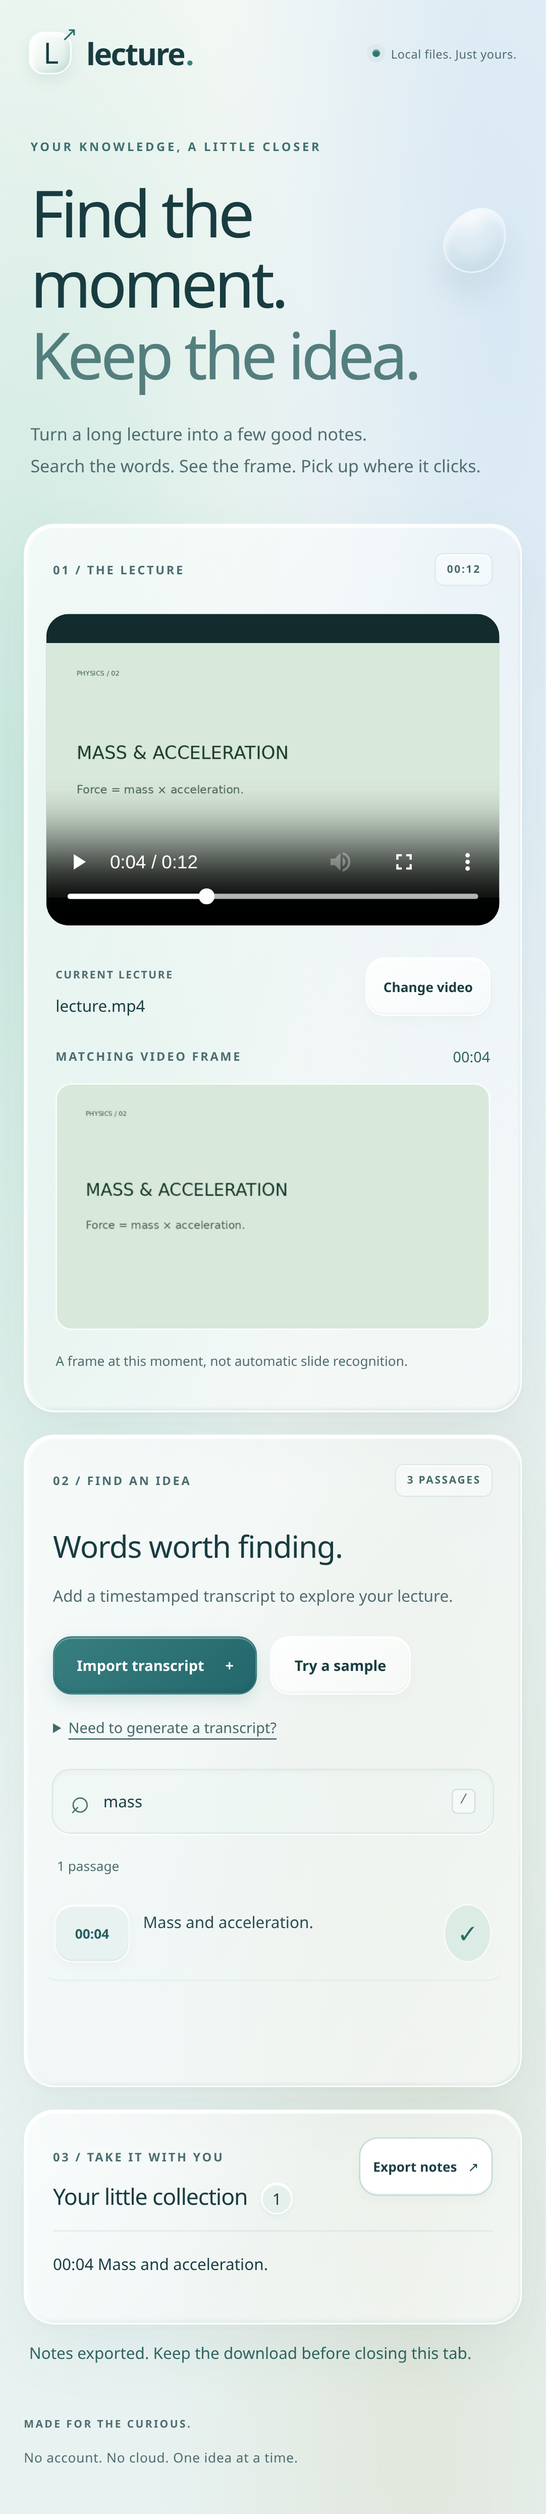
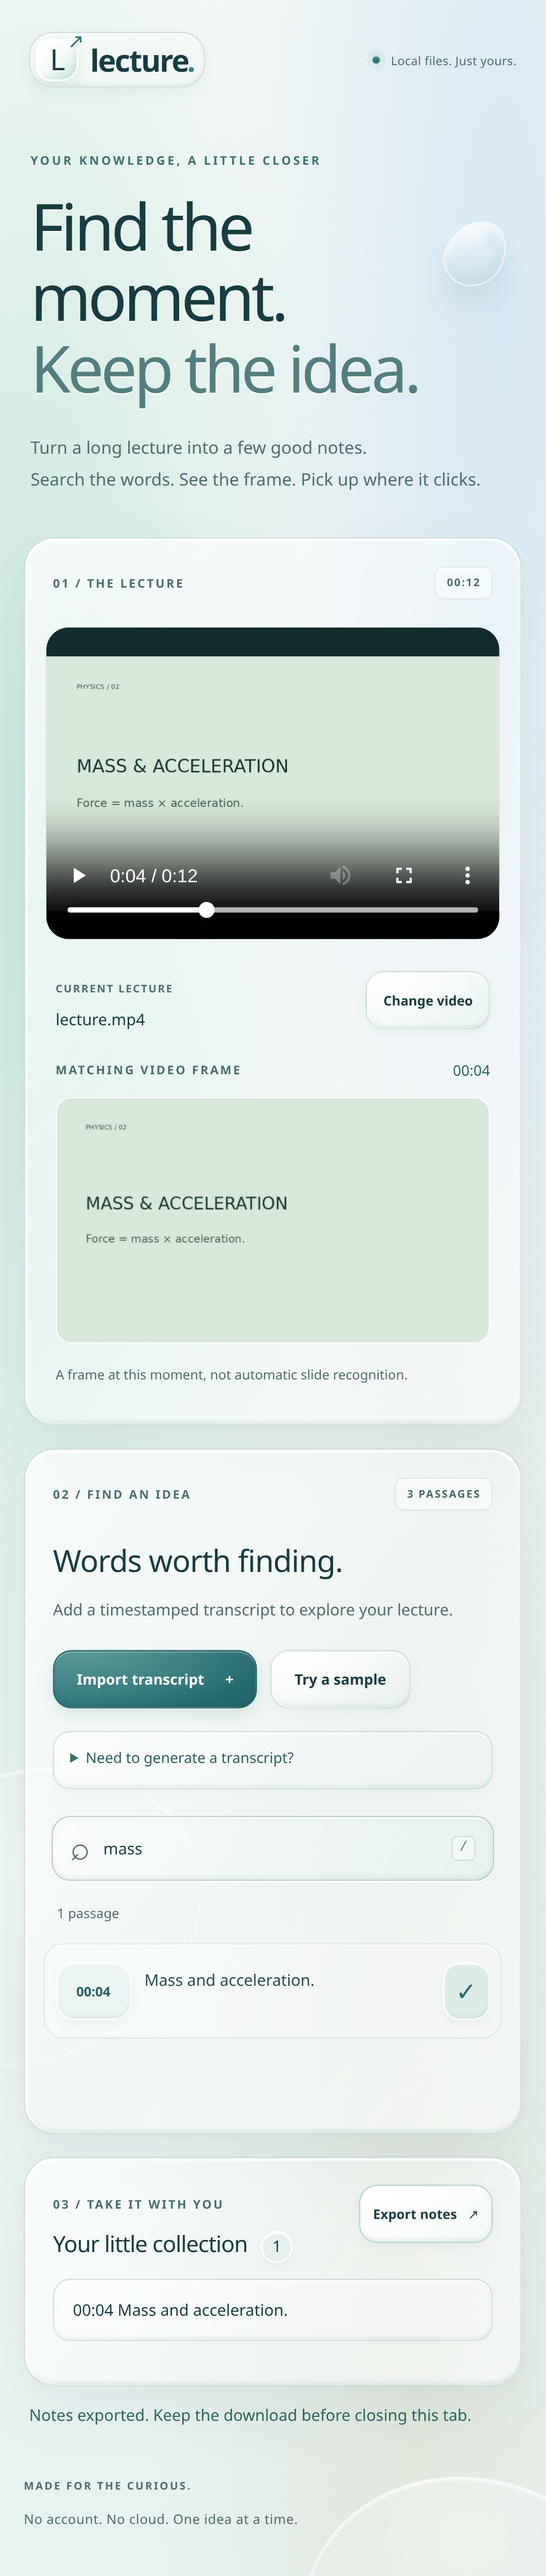
Unify liquid-glass edges across controls and surfaces

diff --git a/src/style.css b/src/style.css
@@ -8,6 +8,8 @@
   --ink: #183c40;
   --muted: #506c70;
   --accent: #206c70;
+  --edge: #83aaa34d;
+  --rim: inset 0 1px 1px #fff, inset 1px 0 1px #ffffffb8, inset 0 -2px 3px #4c80751a;
   --spring: cubic-bezier(.2,.75,.25,1);
 }
 * { box-sizing: border-box; }
@@ -21,14 +23,25 @@ body {
     radial-gradient(ellipse at 76% 92%, #e0e7dc 0%, transparent 45%),
     linear-gradient(145deg,#f6f9f5,#e8f2f1 70%);
 }
+/* Still caustic rings sit behind content: no moving wallpaper or costly filters. */
+body { isolation: isolate; }
+body::before, body::after {
+  content: ""; position: fixed; z-index: -1; pointer-events: none;
+  width: min(54vw,620px); aspect-ratio: 1; border-radius: 50%;
+  background: radial-gradient(ellipse at 32% 24%,#ffffff69,transparent 52%);
+  border: 1px solid #ffffff91;
+  box-shadow: inset 2px 3px 4px #ffffffb3, inset -3px -5px 8px #71a89c12, 0 14px 35px #54847d0a;
+}
+body::before { top: 27vh; left: -28vw; transform: rotate(-22deg) scaleY(.8); }
+body::after { bottom: -24vh; right: -20vw; transform: rotate(25deg) scaleY(.88); }
 button, input, label { font: inherit; }
 button, .button {
   position: relative;
   isolation: isolate;
   overflow: hidden;
-  border: 1px solid #ffffff;
-  background: linear-gradient(145deg,#ffffffd9,#ffffff70);
-  box-shadow: inset 0 1px 0 #fff, inset 0 -1px 1px #48787912, 0 3px 8px #315c5c09;
+  border: 1px solid var(--edge);
+  background: radial-gradient(ellipse at 22% 0%,#ffffffeb,transparent 75%), linear-gradient(145deg,#ffffffa8,#dcefe85c);
+  box-shadow: var(--rim), 0 3px 8px #315c5c0e;
   color: var(--ink);
   border-radius: 14px;
   padding: 12px 17px;
@@ -46,15 +59,16 @@ button, .button {
 button:hover, .button:hover { background-color: #fff; border-color: #b8d6d4; }
 button:disabled { opacity: .5; cursor: not-allowed; }
 .primary {
-  background: linear-gradient(135deg,#387f80,#23666b);
+  background: radial-gradient(ellipse at 15% 0%,#67a4a2bf,transparent 80%), linear-gradient(135deg,#32777b,#23666b);
   color: #fff;
-  border-color: #397f80;
+  border-color: #2e686c;
   box-shadow: inset 0 1px 0 #ffffff4d, inset 0 -2px 3px #124f5b38, 0 5px 12px #316b7026;
 }
 .primary:hover { background: linear-gradient(135deg,#347c7e,#1b5b60); border-color: #28696c; }
 .top { max-width: 1320px; padding: 28px 42px 0; margin: auto; display: flex; align-items: center; gap: 20px; justify-content: space-between; }
 .brand { text-decoration: none; color: var(--ink); font-size: 25px; letter-spacing: -1px; font-weight: 650; display: flex; align-items: center; gap: 11px; }
 .brand-dot { color: #3c8180; margin-left: -10px; }
+.brand { position: relative; isolation: isolate; overflow: hidden; border: 1px solid var(--edge); border-radius: 18px; padding: 6px 11px 6px 6px; background: linear-gradient(125deg,#ffffff88,#ffffff29); box-shadow: var(--rim),0 4px 10px #426e6910; }
 .brand-icon {
   width: 32px; height: 32px; border: 1px solid #ffffff; border-radius: 11px 11px 13px 11px;
   background: linear-gradient(135deg,#ffffffed,#ffffff38 50%,#b7d9d07d);
@@ -79,12 +93,13 @@ main { max-width: 1236px; margin: auto; padding: 0 36px; }
 .eyebrow { color: #3e7070; margin-bottom: 18px; }
 h1 { font-size: clamp(44px,6vw,70px); line-height: 1.09; letter-spacing: -3.5px; font-weight: 450; margin: 0 0 20px; }
 h1 span { color: #547e7e; }
+h1,h2,.brand { text-shadow: 0 1px 0 #ffffffcc; }
 .intro > p { font-size: 13px; line-height: 1.85; color: var(--muted); margin: 0; }
 .workspace { display: grid; grid-template-columns: 1.08fr 1fr; gap: 22px; align-items: start; }
 .glass {
   position: relative;
   background: linear-gradient(125deg,#ffffffb8,#ffffff61 50%,#ffffff8f);
-  border: 1px solid #fffffff0;
+  border: 1px solid #83aaa34d;
   border-radius: 26px;
   box-shadow: 0 18px 50px #375d6110, 0 3px 8px #375d6107, inset 1px 1px 0 #fff, inset -1px -1px 2px #719c9c1a;
   backdrop-filter: blur(18px) saturate(115%);
@@ -94,7 +109,7 @@ h1 span { color: #547e7e; }
 /* Rim highlights simulate liquid-glass curvature; no WebGL or constant filter animation. */
 .glass::before {
   content: ""; position: absolute; inset: 0; border-radius: inherit; pointer-events: none;
-  box-shadow: inset 0 2px 1px #fff, inset 2px 0 2px #ffffffbd, inset 0 -2px 2px #87afad16;
+  box-shadow: inset 0 2px 1px #fff, inset 2px 0 2px #ffffffbd, inset 0 -2px 3px #5c999326, inset -2px 0 3px #ffffff99;
 }
 .panel-top { display: flex; justify-content: space-between; align-items: center; gap: 10px; padding: 24px; }
 .section-label { color: #4b6d70; font-size: 9px; letter-spacing: 1.4px; }
@@ -124,9 +139,17 @@ h2 { font-size: 19px; font-weight: 450; letter-spacing: -.45px; margin: 0; }
 .actions { display: flex; gap: 10px; flex-wrap: wrap; margin: 20px 0 17px; }
 .actions button { font-size: 11px; }
 details { font-size: 11px; line-height: 1.7; color: #46676b; margin-bottom: 20px; }
-summary { cursor: pointer; text-decoration: underline; text-underline-offset: 4px; }
+summary {
+  position: relative; isolation: isolate; overflow: hidden; cursor: pointer;
+  min-height: 44px; padding: 11px 12px; border: 1px solid var(--edge); border-radius: 13px;
+  background: linear-gradient(135deg,#ffffff9c,#e3f2ed4d); box-shadow: var(--rim),0 3px 7px #315c5c08;
+  color: #315e61; text-decoration: none;
+}
+summary::marker { color: #376e6e; }
+details[open] summary { border-color: #61968d80; }
+details > p { padding-inline: 3px; }
 code { font-size: 10px; white-space: normal; overflow-wrap: anywhere; color: #225c61; }
-.search-box { display: flex; align-items: center; gap: 10px; margin: 0 23px; padding: 11px 13px; background: #edf5f28c; border: 1px solid #98bdb33d; border-radius: 14px; color: #4f7070; box-shadow: inset 0 2px 4px #42696507,0 1px 0 #fff; }
+.search-box { position: relative; isolation: isolate; overflow: hidden; display: flex; align-items: center; gap: 10px; margin: 0 23px; padding: 11px 13px; background: linear-gradient(125deg,#ffffff8c,#dbeee76b); border: 1px solid #81a99d80; border-radius: 14px; color: #4f7070; box-shadow: var(--rim), inset 0 2px 5px #4269650d,0 1px 0 #fff; }
 .search-box > span { font-size: 25px; line-height: 1; }
 input[type=search] { width: 100%; min-width: 0; border: 0; outline: 0; background: transparent; color: var(--ink); font-size: 12px; padding: 3px 0; }
 input::placeholder { color: #5e7779; opacity: 1; }
@@ -136,11 +159,11 @@ kbd { font-size: 10px; border: 1px solid #8fb2ad55; background: #ffffff70; paddi
 .empty-results { display: flex; align-items: center; justify-content: center; gap: 15px; min-height: 143px; color: var(--muted); }
 .empty-results span { font-size: 38px; color: #729996; }
 .empty-results p { font-size: 13px; line-height: 1.7; }
-.cue { display: grid; grid-template-columns: 57px 1fr 36px; align-items: start; gap: 10px; padding: 13px 8px; border-bottom: 1px solid #7aaba51e; border-radius: 10px; }
+.cue { display: grid; grid-template-columns: 57px 1fr 36px; align-items: start; gap: 10px; padding: 13px 8px; border: 1px solid #94b9ae3b; border-radius: 15px; margin-top: 7px; background: linear-gradient(125deg,#ffffff70,#ffffff1a); box-shadow: inset 0 1px 0 #ffffffb3; }
 .cue .time { color: #255e61; background: #d5e9e659; padding: 4px 5px; min-height: 44px; font-size: 10px; font-variant-numeric: tabular-nums; border-color: #ffffffc0; }
 .cue p { font-size: 12px; line-height: 1.8; margin: 3px 0; color: #294d52; overflow-wrap: anywhere; }
-.cue .save { padding: 0; min-width: 36px; min-height: 44px; border-color: transparent; font-size: 19px; color: #2a6b6a; background: transparent; box-shadow: none; }
-.cue .save[aria-pressed=true] { background: #c6e3d780; border-color: #ffffffc9; border-radius: 50%; }
+.cue .save { padding: 0; min-width: 36px; min-height: 44px; border-color: var(--edge); border-radius: 13px; font-size: 19px; color: #2a6b6a; background: linear-gradient(135deg,#ffffffb3,#d9eee54d); box-shadow: var(--rim),0 3px 6px #315c5c0c; }
+.cue .save[aria-pressed=true] { background: #c6e3d780; border-color: #ffffffc9; border-radius: 13px; }
 .no-match { font-size: 13px; color: var(--muted); padding: 10px; }
 .notes-panel { margin-top: 22px; padding: 25px; }
 .notes-heading { display: flex; justify-content: space-between; gap: 12px; align-items: center; }
@@ -148,7 +171,7 @@ kbd { font-size: 10px; border: 1px solid #8fb2ad55; background: #ffffff70; paddi
 .notes-heading h2 span { font-size: 12px; display: inline-grid; place-items: center; background: #d9e9e673; border: 1px solid #fff; box-shadow: inset 0 1px 1px #fff,0 2px 4px #4b7a7510; width: 24px; height: 24px; border-radius: 50%; margin-left: 6px; }
 .notes-heading > button { font-size: 11px; }
 #notes-empty { font-size: 12px; color: var(--muted); line-height: 1.7; margin-bottom: 0; }
-#notes p { font-size: 12px; line-height: 1.8; border-top: 1px solid #7aaba526; padding-top: 14px; overflow-wrap: anywhere; }
+#notes p { font-size: 12px; line-height: 1.8; border: 1px solid var(--edge); border-radius: 13px; padding: 12px 14px; background: linear-gradient(125deg,#ffffff8f,#ffffff2e); box-shadow: var(--rim); overflow-wrap: anywhere; }
 #status { font-size: 12px; line-height: 1.7; color: #2e6561; min-height: 22px; padding: 0 4px; }
 #status.error { color: #9e3827; }
 footer { display: flex; justify-content: space-between; gap: 15px; font-size: 8px; letter-spacing: 1.3px; color: var(--muted); padding: 20px 0 30px; }
@@ -167,6 +190,8 @@ label:has(+input:focus-visible) { outline: 2px solid #216b73; }
 @media (max-width:760px) {
   .top { padding: 24px 22px 0; gap: 12px; }
   .privacy { font-size: 9px; }
+  .brand { padding: 4px 7px 4px 4px; gap: 9px; }
+  body::before,body::after { width: 65vw; box-shadow: inset 1px 2px 2px #ffffffa3; }
   .brand { font-size: 23px; }
   main { padding: 0 18px; }
   .intro { padding: 48px 5px 32px; }
@@ -192,8 +217,8 @@ label:has(+input:focus-visible) { outline: 2px solid #216b73; }
   .cue:hover { background-color: #ffffff75; }
 }
 @media (prefers-reduced-motion:no-preference) {
-  button,.button { transition: transform 220ms var(--spring), background-color 220ms ease, border-color 220ms ease, box-shadow 220ms ease; }
-  button:not(:disabled):active,.button:active { transform: scale(.975); }
+  button,.button,summary,.search-box,.brand { transition: transform 220ms var(--spring), background-color 220ms ease, border-color 220ms ease, box-shadow 220ms ease; }
+  button:not(:disabled):active,.button:active,summary:active { transform: scale(.975); }
   .cue { transition: background-color 200ms ease; }
   .glass { animation: settle 600ms var(--spring) both; }
   .transcript-panel { animation-delay: 70ms; }
@@ -209,5 +234,5 @@ label:has(+input:focus-visible) { outline: 2px solid #216b73; }
 }
 @media (forced-colors:active) {
   .glass,button,.button,.search-box { border: 1px solid CanvasText; }
-  .intro::after,.water-ripple { display: none; }
+  .intro::after,.water-ripple,body::before,body::after { display: none; }
 }

diff --git a/tests/e2e/app.spec.ts b/tests/e2e/app.spec.ts
@@ -86,3 +86,22 @@ test('small Android-sized viewport keeps controls reachable without horizontal s
  await expect(exportButton).toBeInViewport();
  expect((await exportButton.boundingBox())!.height).toBeGreaterThanOrEqual(44);
 });
+
+test('liquid edges cover controls, disclosures and input without sacrificing actions',async({page})=>{
+ await page.emulateMedia({reducedMotion:'no-preference'});await page.goto('/');
+ await page.getByRole('button',{name:'Try a sample'}).click();
+ for (const selector of ['.brand','summary','.search-box','.cue .time','.cue .save','.glass','#demo']) {
+  const edge=await page.locator(selector).first().evaluate(el=>{const s=getComputedStyle(el);return {border:s.borderTopWidth,style:s.borderTopStyle,shadow:s.boxShadow};});
+  expect(edge.border).toBe('1px');expect(edge.style).toBe('solid');expect(edge.shadow).toContain('inset');
+ }
+ const disclosure=page.locator('summary');await disclosure.focus();await page.keyboard.press('Enter');await expect(page.locator('details')).toHaveAttribute('open','');
+ await expect(disclosure).toHaveCSS('outline-style','solid');
+ await disclosure.dispatchEvent('pointerdown',{button:0,clientX:20,clientY:20});await expect(disclosure.locator('.water-ripple')).toHaveCount(1);
+ await expect(disclosure.locator('.water-ripple')).toHaveCount(0,{timeout:2000});
+ await page.locator('.search-box').dispatchEvent('pointerdown',{button:0,clientX:20,clientY:20});await expect(page.locator('.search-box .water-ripple')).toHaveCount(1);
+ await page.getByRole('searchbox').fill('connects');await expect(page.locator('.cue')).toHaveCount(1);
+ await page.getByRole('button',{name:'Save note at 00:04'}).click();await expect(page.locator('#notes-count')).toHaveText('1');
+ await page.emulateMedia({reducedMotion:'reduce'});await expect(page.locator('.water-ripple')).toHaveCount(0);
+ await page.locator('summary').dispatchEvent('pointerdown',{button:0,clientX:20,clientY:20});await expect(page.locator('.water-ripple')).toHaveCount(0);
+ expect(await page.evaluate(()=>document.documentElement.scrollWidth<=innerWidth)).toBe(true);
+});

diff --git a/src/main.ts b/src/main.ts
@@ -76,8 +76,8 @@ $('#install').addEventListener('click',async()=>{await installPrompt?.prompt();i
 const reducedMotion = window.matchMedia('(prefers-reduced-motion: reduce)');
 document.addEventListener('pointerdown', event => {
   if (reducedMotion.matches || event.button !== 0 || !(event.target instanceof Element)) return;
-  const button = event.target.closest<HTMLButtonElement>('button, .button');
-  if (!button || button.disabled) return;
+  const button = event.target.closest<HTMLElement>('button, .button, summary, .search-box, .brand');
+  if (!button || button.matches(':disabled')) return;
   button.querySelector('.water-ripple')?.remove();
   const bounds = button.getBoundingClientRect();
   const ring = document.createElement('span');

diff --git a/docs/VALIDATION.md b/docs/VALIDATION.md
@@ -50,3 +50,28 @@ This is measured first-version validation, not a guarantee for all devices or me
   by browser interactions. Screenshots alone cannot demonstrate animation.
 - No physical Android testing, APK, deployment, new speech-model validation,
   licensing choice or changes to transcript/media handling in this refinement.
+
+## Consistent water-glass edges — 20 October 2026
+
+- Extended the existing light liquid-glass design rather than replacing it. Background
+  now has two still caustic-ring shapes. Disclosure, brand/home link, search field,
+  passage cards, note cards and save/seek controls share softly tinted outlines and
+  inset light-catching rims. Primary controls retain dark readable text contrast
+  treatment (white text on teal); body text stays solid, not transparent glass letters.
+- The owner's additional “Also border” refinement is included in the panel, input
+  and control edges. Browser-native video controls are intentionally retained; the
+  browser owns their appearance and accessibility.
+- Tap rings now include the transcript-help disclosure, search surface and home link.
+  Existing reduced-motion handling and bounded ring cleanup apply to all of them.
+  No looping background animation, extra dependency or new GPU filter was introduced.
+- `pnpm build`, 34 unit cases, 4 Python CLI cases and **16 browser tests** passed.
+  Browser coverage includes desktop Chromium, Pixel 7 emulation, 320px layout,
+  live import/search/seek/frame pixels/export, offline shell, data-loss protection,
+  glass borders/inset rims, disclosure keyboard behavior, and motion preference changes.
+- The first new test expected one sample result for “mass”; two sample passages
+  actually contain that word. Corrected the test query to the unique “connects”.
+  No search behavior was changed to satisfy that incorrect assertion.
+- Inspected actual updated desktop/mobile full-page captures. These use synthetic
+  local fixture video/transcripts. Still images show depth/borders, not animation.
+- No physical Android, installation or APK test; no deployment or speech-pipeline
+  changes. Liquid depth is a CSS simulation, not physical refraction.
